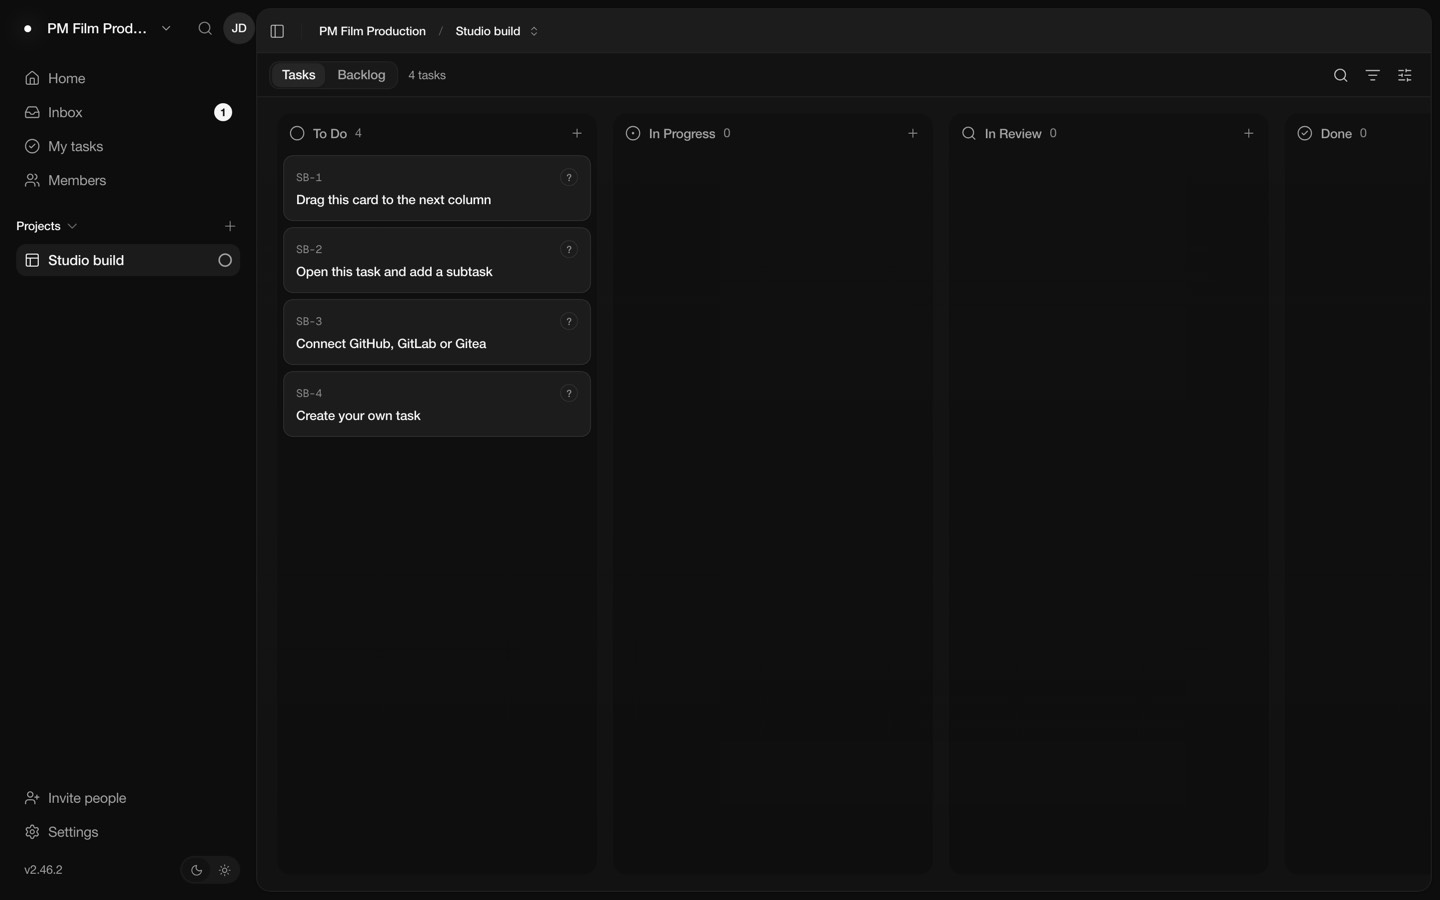
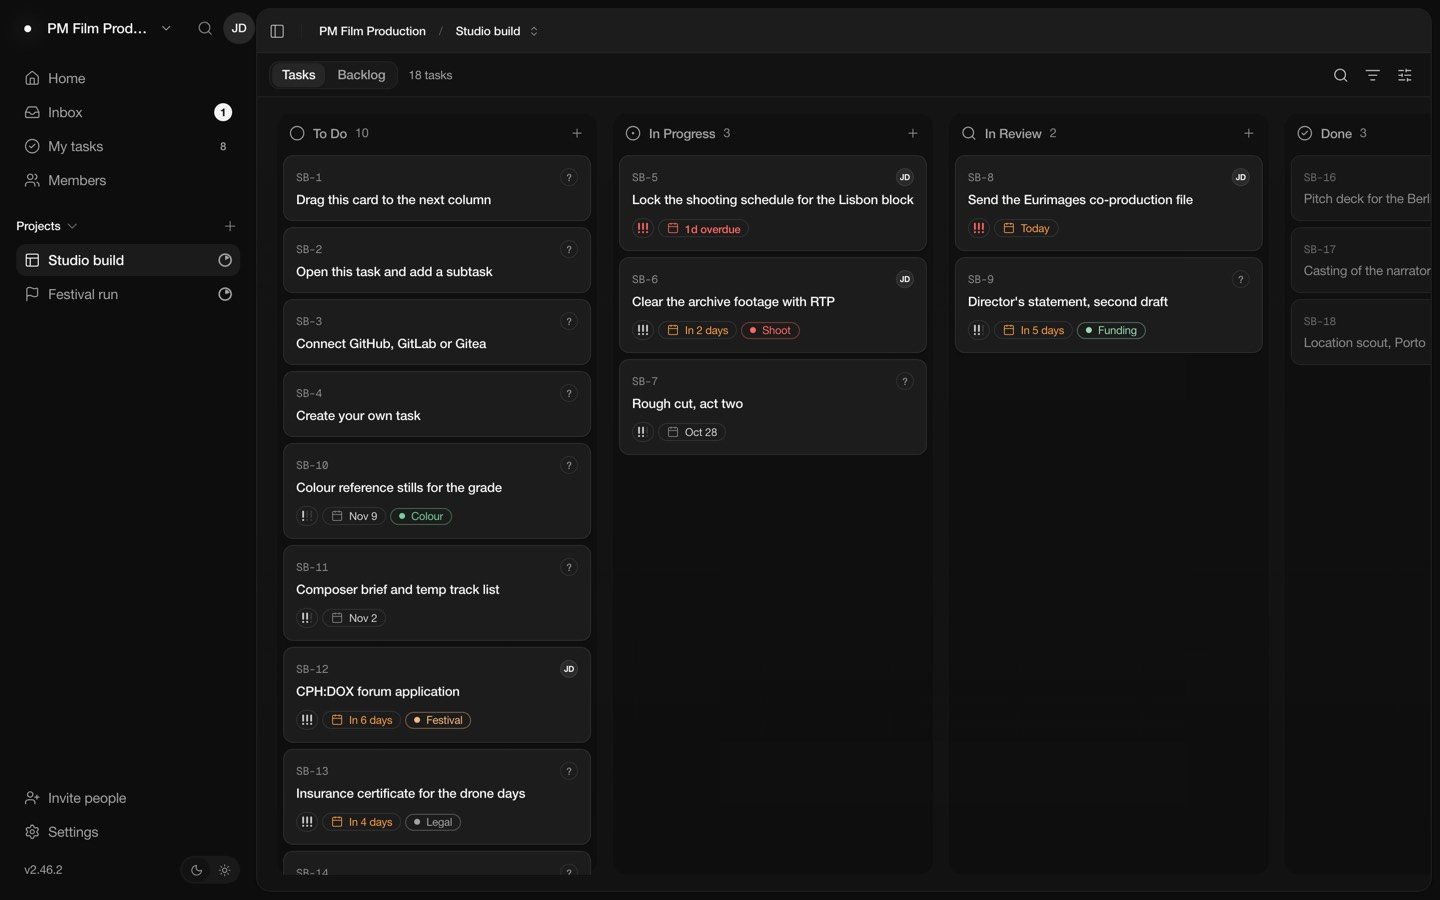
feat(theme): studio 2.0 pass 2, label colours on the dossier palette
The nine label colours resolve to Dossier tokens (faint, muted, ink, ok,
warn, bad and three deeper mixes); stored values and names stay. The
Project row of the task rail spans both columns, so a second project no
longer clips the name behind the hidden shortcut hint. Reference
screenshots now show a seeded slate (all columns, every priority, overdue
and soon dates, labels, comments, two projects).

Gate: typecheck clean, vp check clean, 1583 web tests green.

diff --git a/apps/web/src/components/shared/modals/create-task-modal.tsx b/apps/web/src/components/shared/modals/create-task-modal.tsx
@@ -148,47 +148,48 @@ function CreateTaskModalContent({
         {
           value: "gray" as LabelColor,
           labelKey: "stone" as const,
-          color: "var(--color-stone-500)",
+          color: "var(--color-faint)",
         },
         {
           value: "dark-gray" as LabelColor,
           labelKey: "slate" as const,
-          color: "var(--color-slate-500)",
+          color: "var(--muted-foreground)",
         },
         {
           value: "purple" as LabelColor,
           labelKey: "lavender" as const,
-          color: "var(--color-violet-500)",
+          color: "var(--foreground)",
         },
         {
           value: "teal" as LabelColor,
           labelKey: "sage" as const,
-          color: "var(--color-emerald-600)",
+          color: "var(--success)",
         },
         {
           value: "green" as LabelColor,
           labelKey: "forest" as const,
-          color: "var(--color-green-600)",
+          color: "color-mix(in srgb, var(--success) 70%, var(--foreground))",
         },
         {
           value: "yellow" as LabelColor,
           labelKey: "amber" as const,
-          color: "var(--color-amber-600)",
+          color: "var(--warning)",
         },
         {
           value: "orange" as LabelColor,
           labelKey: "terracotta" as const,
-          color: "var(--color-orange-600)",
+          color: "color-mix(in srgb, var(--warning) 70%, var(--foreground))",
         },
         {
           value: "pink" as LabelColor,
           labelKey: "rose" as const,
-          color: "var(--color-rose-600)",
+          color:
+            "color-mix(in srgb, var(--destructive) 70%, var(--foreground))",
         },
         {
           value: "red" as LabelColor,
           labelKey: "crimson" as const,
-          color: "var(--color-red-600)",
+          color: "var(--destructive)",
         },
       ].map(({ labelKey, ...rest }) => ({
         ...rest,
@@ -1159,7 +1160,7 @@ function CreateTaskModalContent({
                                 backgroundColor:
                                   labelColors.find(
                                     (c) => c.value === selectedColor,
-                                  )?.color || "var(--color-neutral-400)",
+                                  )?.color || "var(--color-faint)",
                               }}
                             />
                             <span className="truncate">

diff --git a/apps/web/src/constants/label-colors.ts b/apps/web/src/constants/label-colors.ts
@@ -1,13 +1,28 @@
+// DECISION (Studio 2.0): label colours come from the Dossier palette: ink, muted,
+// faint, and the three tones (ok, warn, bad) each in a plain and a deeper mix.
+// The stored values (gray, teal, red, ...) and the names stay, so nothing migrates.
 const labelColors = [
-  { value: "gray", label: "Stone", color: "var(--color-stone-500)" },
-  { value: "dark-gray", label: "Slate", color: "var(--color-slate-500)" },
-  { value: "purple", label: "Lavender", color: "var(--color-violet-500)" },
-  { value: "teal", label: "Sage", color: "var(--color-emerald-600)" },
-  { value: "green", label: "Forest", color: "var(--color-green-600)" },
-  { value: "yellow", label: "Amber", color: "var(--color-amber-600)" },
-  { value: "orange", label: "Terracotta", color: "var(--color-orange-600)" },
-  { value: "pink", label: "Rose", color: "var(--color-rose-600)" },
-  { value: "red", label: "Crimson", color: "var(--color-red-600)" },
+  { value: "gray", label: "Stone", color: "var(--color-faint)" },
+  { value: "dark-gray", label: "Slate", color: "var(--muted-foreground)" },
+  { value: "purple", label: "Lavender", color: "var(--foreground)" },
+  { value: "teal", label: "Sage", color: "var(--success)" },
+  {
+    value: "green",
+    label: "Forest",
+    color: "color-mix(in srgb, var(--success) 70%, var(--foreground))",
+  },
+  { value: "yellow", label: "Amber", color: "var(--warning)" },
+  {
+    value: "orange",
+    label: "Terracotta",
+    color: "color-mix(in srgb, var(--warning) 70%, var(--foreground))",
+  },
+  {
+    value: "pink",
+    label: "Rose",
+    color: "color-mix(in srgb, var(--destructive) 70%, var(--foreground))",
+  },
+  { value: "red", label: "Crimson", color: "var(--destructive)" },
 ];
 
 export default labelColors;

diff --git a/apps/web/src/components/task/task-labels-popover.tsx b/apps/web/src/components/task/task-labels-popover.tsx
@@ -20,15 +20,27 @@ import { toast } from "@/lib/toast";
 import type Task from "@/types/task";
 
 const labelColors = [
-  { value: "gray", key: "stone", color: "var(--color-stone-500)" },
-  { value: "dark-gray", key: "slate", color: "var(--color-slate-500)" },
-  { value: "purple", key: "lavender", color: "var(--color-violet-500)" },
-  { value: "teal", key: "sage", color: "var(--color-emerald-600)" },
-  { value: "green", key: "forest", color: "var(--color-green-600)" },
-  { value: "yellow", key: "amber", color: "var(--color-amber-600)" },
-  { value: "orange", key: "terracotta", color: "var(--color-orange-600)" },
-  { value: "pink", key: "rose", color: "var(--color-rose-600)" },
-  { value: "red", key: "crimson", color: "var(--color-red-600)" },
+  { value: "gray", key: "stone", color: "var(--color-faint)" },
+  { value: "dark-gray", key: "slate", color: "var(--muted-foreground)" },
+  { value: "purple", key: "lavender", color: "var(--foreground)" },
+  { value: "teal", key: "sage", color: "var(--success)" },
+  {
+    value: "green",
+    key: "forest",
+    color: "color-mix(in srgb, var(--success) 70%, var(--foreground))",
+  },
+  { value: "yellow", key: "amber", color: "var(--warning)" },
+  {
+    value: "orange",
+    key: "terracotta",
+    color: "color-mix(in srgb, var(--warning) 70%, var(--foreground))",
+  },
+  {
+    value: "pink",
+    key: "rose",
+    color: "color-mix(in srgb, var(--destructive) 70%, var(--foreground))",
+  },
+  { value: "red", key: "crimson", color: "var(--destructive)" },
 ];
 
 const CREATE_LABEL = ":create";

diff --git a/apps/web/src/components/task/properties/properties-rail.tsx b/apps/web/src/components/task/properties/properties-rail.tsx
@@ -148,7 +148,10 @@ export function PropertiesRail({
           </div>
         </PropertyRow>
 
-        <PropertyRow label={t("tasks:properties.project")}>
+        <PropertyRow
+          label={t("tasks:properties.project")}
+          className="sm:col-span-2"
+        >
           {canMoveTask ? (
             <TaskMovePopover task={task} workspaceId={workspaceId}>
               <PropertyValue data-task-action="move" shortcutId="moveToProject">

diff --git a/apps/web/src/lib/label-color.test.ts b/apps/web/src/lib/label-color.test.ts
@@ -5,7 +5,7 @@ afterEach(() => vi.unstubAllGlobals());
 
 describe("resolveLabelColor", () => {
   it("maps Kaneo's named label colors to their CSS variables", () => {
-    expect(resolveLabelColor("red")).toBe("var(--color-red-600)");
+    expect(resolveLabelColor("red")).toBe("var(--destructive)"); // Studio 2.0: Dossier tone
   });
 
   it("preserves custom hex colors imported from external systems", () => {

diff --git a/apps/web/src/lib/label-color.ts b/apps/web/src/lib/label-color.ts
@@ -1,6 +1,6 @@
 import labelColors from "@/constants/label-colors";
 
-const FALLBACK_LABEL_COLOR = "var(--color-neutral-400)";
+const FALLBACK_LABEL_COLOR = "var(--color-faint)";
 const HEX_COLOR = /^#(?:[\da-f]{3,4}|[\da-f]{6}|[\da-f]{8})$/i;
 
 export function resolveLabelColor(value: string): string {

diff --git a/apps/web/src/theme/TOUCHED.md b/apps/web/src/theme/TOUCHED.md
@@ -14,6 +14,8 @@ Kaneo's geometry came back and the Dossier palette stayed. What 2.0 reverts or c
 - components/ui/button.tsx: only the primary keeps the 40px pill; outline, secondary and destructive are Kaneo's rounded-lg.
 - components/common/mobile-tab-bar.tsx: paper instead of glass (it floats over cards).
 - onboarding/preview/*: 1px lines, board-card tokens.
+- constants/label-colors.ts, components/task/task-labels-popover.tsx, components/shared/modals/create-task-modal.tsx, lib/label-color.ts (+ its test): the nine label colours are Dossier tokens (faint, muted, ink, ok, warn, bad and three deeper color-mix steps); stored values unchanged.
+- components/task/properties/properties-rail.tsx: the Project row spans both rail columns, like Dates.
 Everything else in the 1.0 list still applies.
 
 ## Studio 1.0 entries
